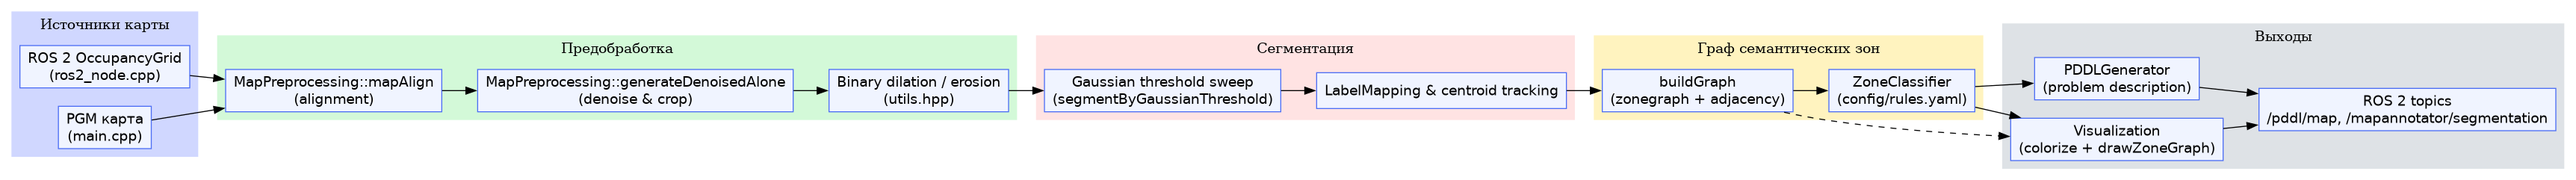
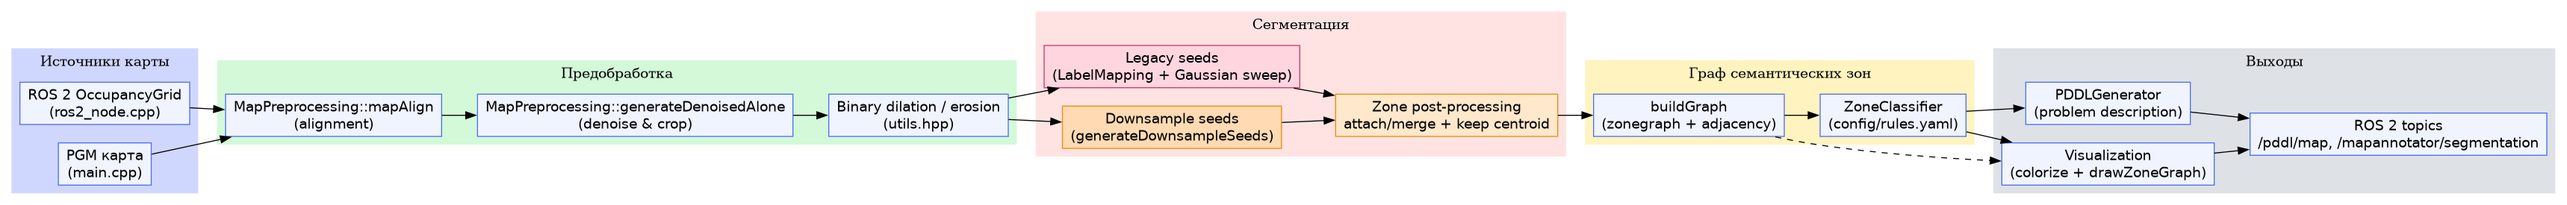
Refresh diagrams and docs for downsample mode

diff --git a/README.md b/README.md
@@ -23,7 +23,11 @@
 2. Предобработка (`preparing/`, `utils.hpp`): выравнивание стен, денойзинг,
    морфология.
 3. Сегментация (`segmentation/`, `map_processing.cpp`):
-   `segmentByGaussianThreshold`, `LabelMapping`, стягивание/слияние масок.
+   - **Downsample seeds** (`generateDownsampleSeeds`) — новый точный режим с
+     трекингом рождения/смерти семян;
+   - **Legacy seeds** (`LabelMapping` + Gaussian sweep) — быстрый режим;
+   в обоих случаях выполняются общие шаги прилипания пикселей и
+   `keepCentroidComponent`.
 4. Построение графа (`mapgraph/`): расчет смежности, преобразование пикселей в
    мировые координаты, классификация правилом (`ZoneClassifier`).
 5. Выходы (`pddl/`, `visualization.hpp`, `ros2_node.cpp`): PDDL, визуализация и
@@ -37,13 +41,13 @@
 2. Выравнивание и детектирование доминирующих стен (`MapPreprocessing::mapAlign`).
 3. Удаление шума + кадрирование (`generateDenoisedAlone`).
 4. Семантическая обработка препятствий (диляция/эрозия `erodeBinary`).
-5. Поиск центроидов и подготовка семян (`LabelMapping`).
-6. Итеративный Gaussian threshold sweep (разные сигмы).
-7. Постобработка: сохранение компоненты с центроидом, прилипания пикселей,
+5a. Генерация семян через down-sampling + отслеживание birth/death.
+5b. (Альтернатива) Семена из `LabelMapping` + Gaussian sweep.
+6. Постобработка: сохранение компоненты с центроидом, прилипания пикселей,
    слияние «одиноких» областей.
-8. Построение графа смежности и перевод координат в метрическое пространство.
-9. Семантическая классификация правилом (`ZoneClassifier`, `config/rules.yaml`).
-10. Генерация PDDL и визуализаций (`PDDLGenerator`, `colorizeSegmentation`).
+7. Построение графа смежности и перевод координат в метрическое пространство.
+8. Семантическая классификация правилом (`ZoneClassifier`, `config/rules.yaml`).
+9. Генерация PDDL и визуализаций (`PDDLGenerator`, `colorizeSegmentation`).
 
 ## Точный режим сегментации
 
